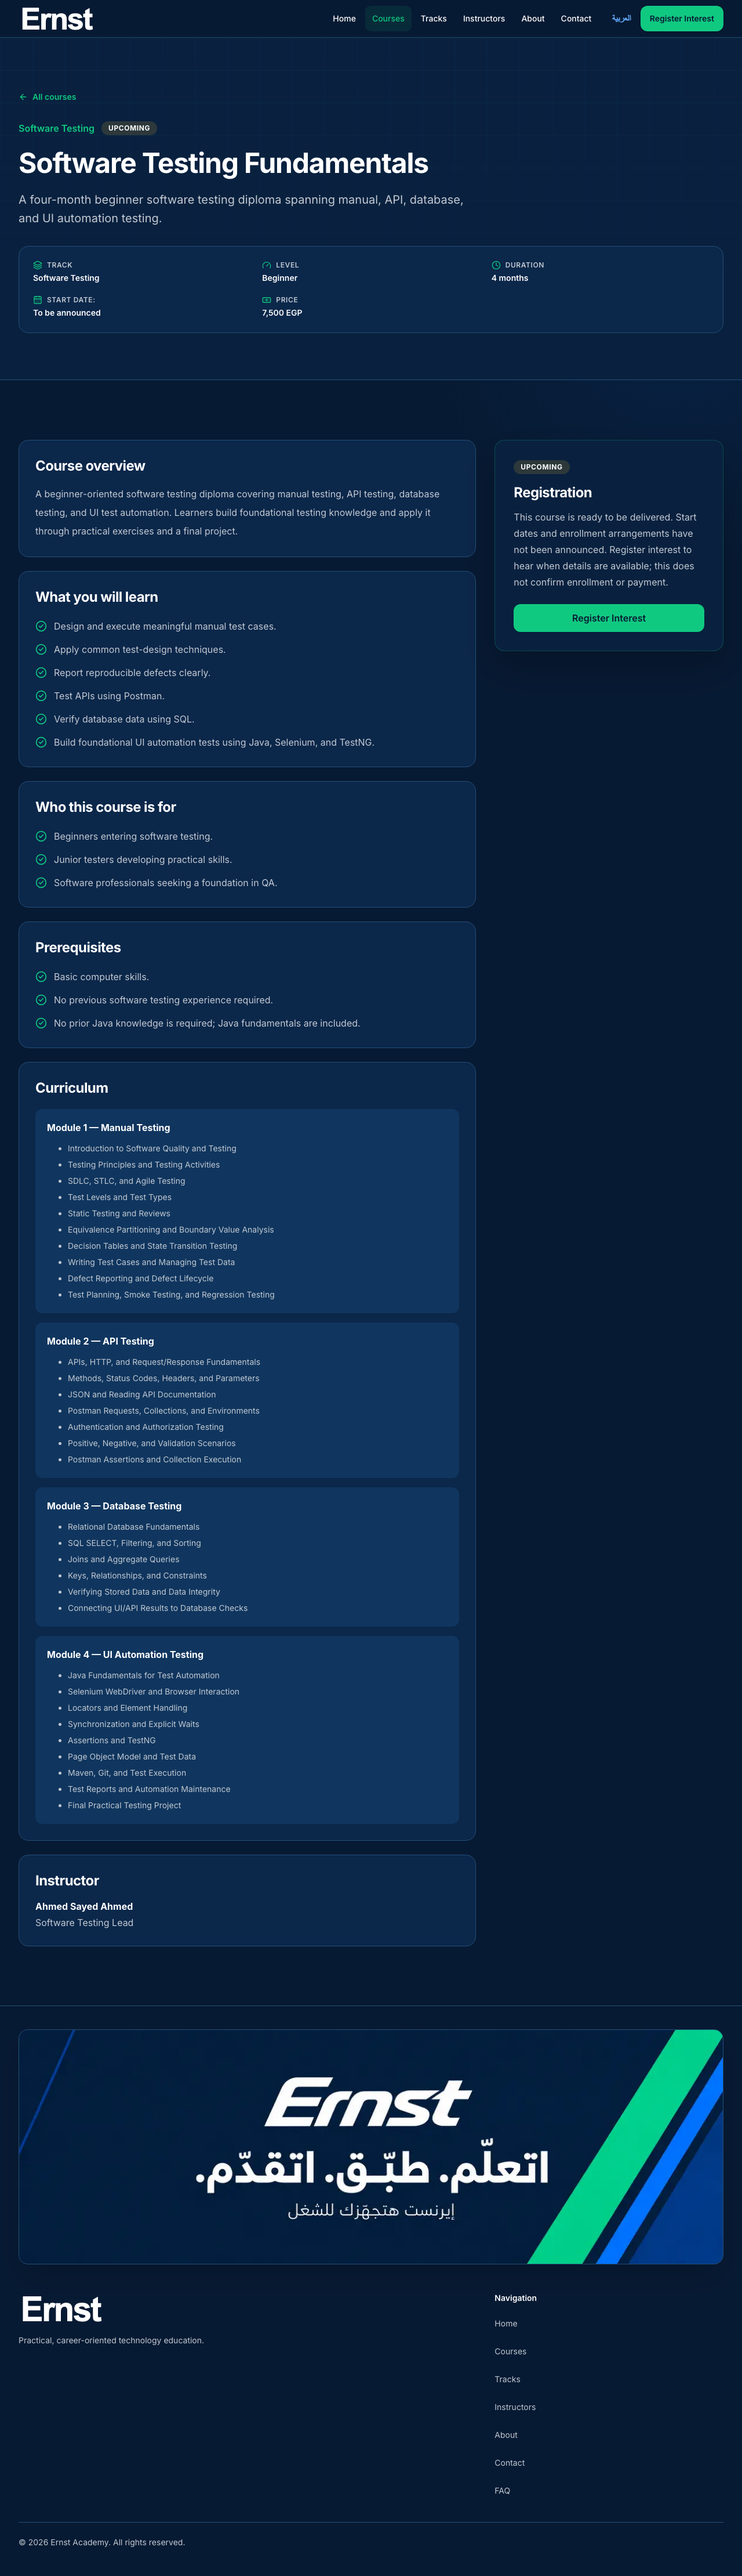
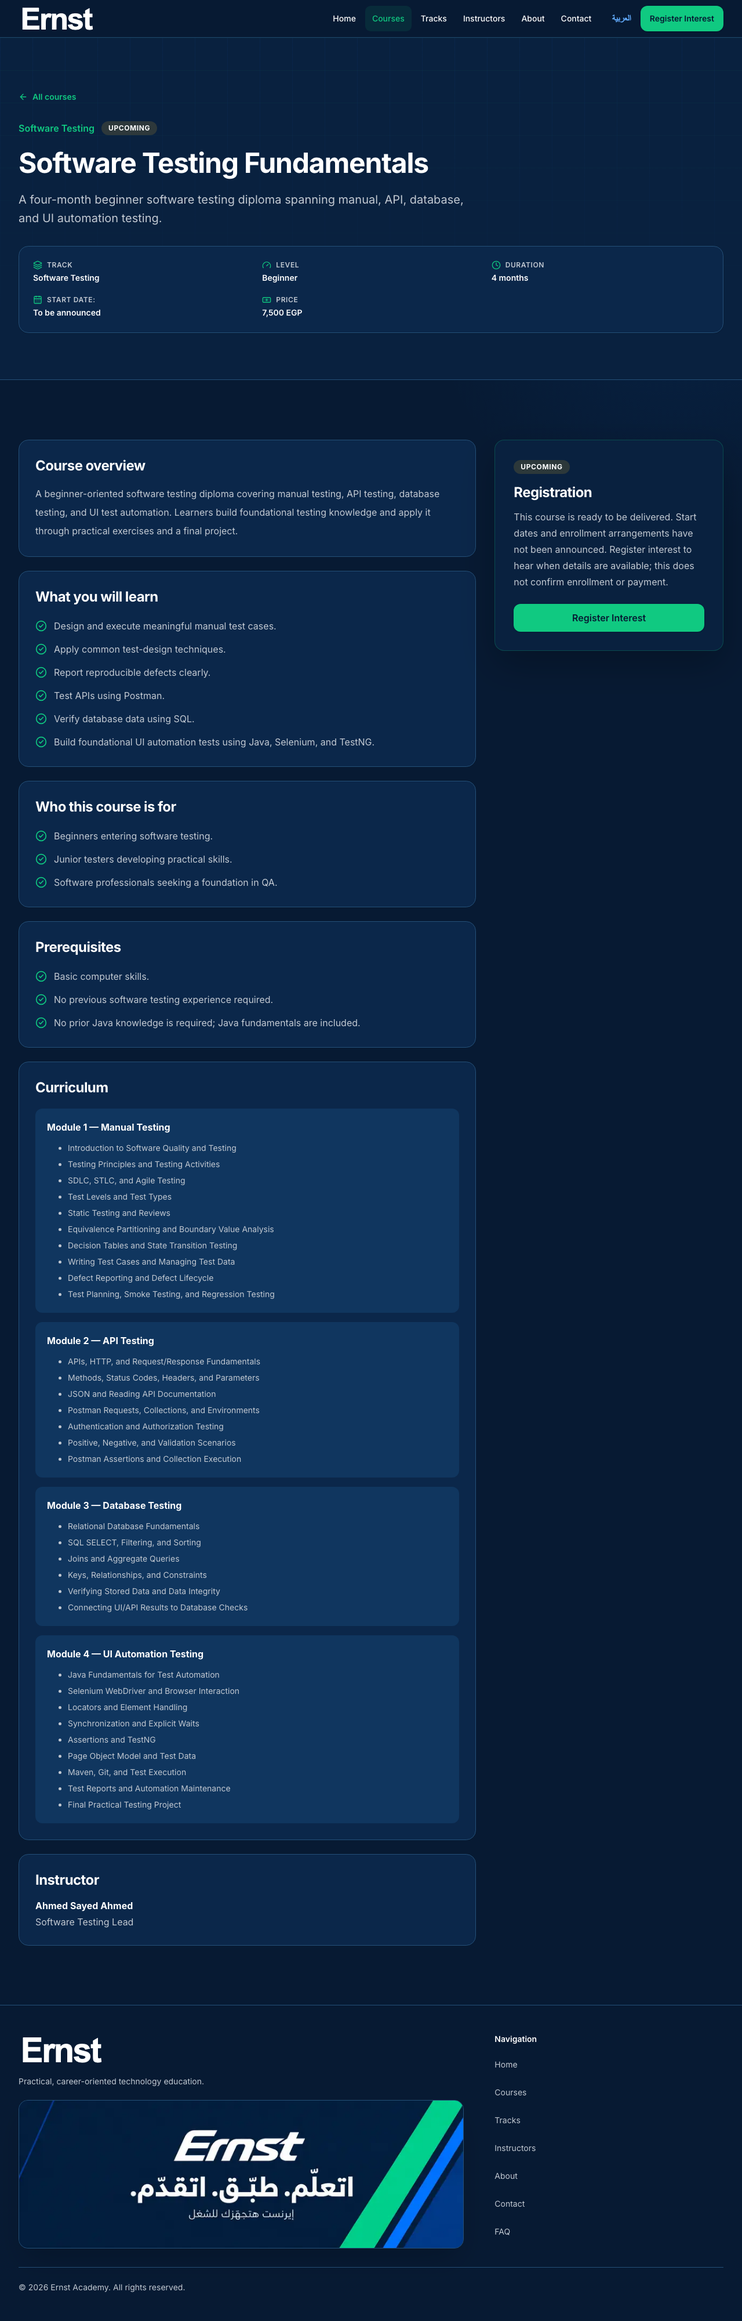
fix: nest campaign cover in footer identity

diff --git a/src/components/layout/site-footer.tsx b/src/components/layout/site-footer.tsx
@@ -15,21 +15,9 @@ export function SiteFooter({ locale, copy }: { locale: Locale; copy: Dictionary[
 
   return (
     <footer className="overflow-hidden border-t border-dark-border bg-dark text-dark-foreground">
-      <Container className="pt-8 md:pt-10">
-        <div className="relative aspect-[16/7] overflow-hidden rounded-2xl border border-dark-border bg-raised shadow-2xl shadow-black/20 sm:aspect-[3/1]">
-          <Image
-            src={siteConfig.assets.footerCover}
-            alt="Ernst — اتعلم. طبق. اتقدم. إيرنست هتجهزك للشغل"
-            fill
-            sizes="(max-width: 639px) 150vw, (min-width: 1280px) 1152px, calc(100vw - 3rem)"
-            className="object-cover object-center"
-          />
-        </div>
-      </Container>
-
       <Container className="py-10 md:py-12">
         <div className="grid gap-8 border-b border-dark-border pb-8 sm:grid-cols-[minmax(0,2fr)_minmax(10rem,1fr)]">
-          <div className="max-w-xl">
+          <div className="min-w-0 max-w-3xl">
             <Link
               href={localizePath(locale, "/")}
               aria-label={copy.navigation.homeLabel}
@@ -38,6 +26,15 @@ export function SiteFooter({ locale, copy }: { locale: Locale; copy: Dictionary[
               <BrandLogo placement="footer" />
             </Link>
             <p className="mt-2 text-sm leading-6 text-dark-muted">{copy.description}</p>
+            <div className="relative mt-5 aspect-[16/7] overflow-hidden rounded-2xl border border-dark-border bg-raised shadow-2xl shadow-black/20 sm:aspect-[3/1]">
+              <Image
+                src={siteConfig.assets.footerCover}
+                alt="Ernst — اتعلم. طبق. اتقدم. إيرنست هتجهزك للشغل"
+                fill
+                sizes="(max-width: 639px) 150vw, (min-width: 1280px) 760px, 62vw"
+                className="object-cover object-center"
+              />
+            </div>
           </div>
 
           <nav aria-label={copy.navigation.footerNavigation}>

diff --git a/docs/UI_GUIDELINES.md b/docs/UI_GUIDELINES.md
@@ -1709,7 +1709,7 @@ The approved Ernst artwork is stored under `public/brand` with stable filenames:
 - `ernst-og-image.png` is the approved 1200 × 630 social-sharing image.
 - `ernst-geometric-background.png` is the approved dark geometric artwork used only in the homepage hero.
 - `ernst-footer-cover.png` is the approved Arabic campaign cover used once as a responsive visual
-  banner above the footer navigation.
+  inside the footer identity column, directly below the logo and description.
 
 Use the full wordmark for primary brand placement. The dark interface uses the approved white
 treatment without a surrounding card, while the original navy vector remains the source asset.
